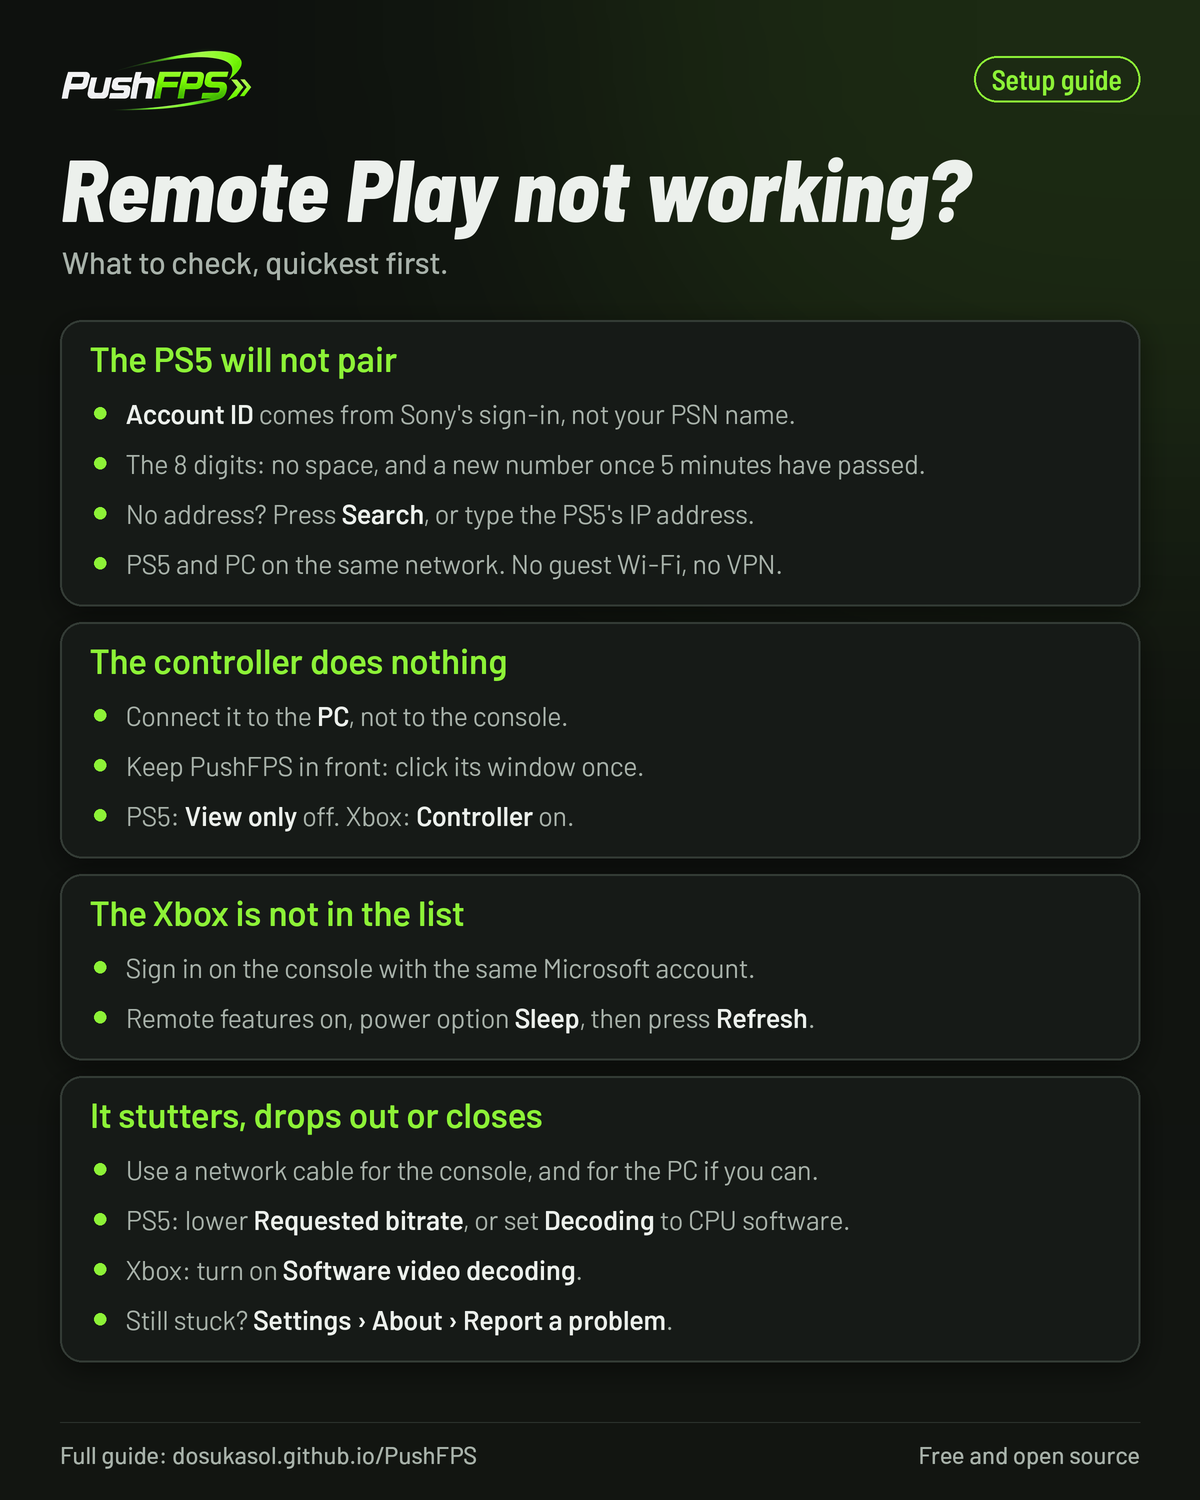
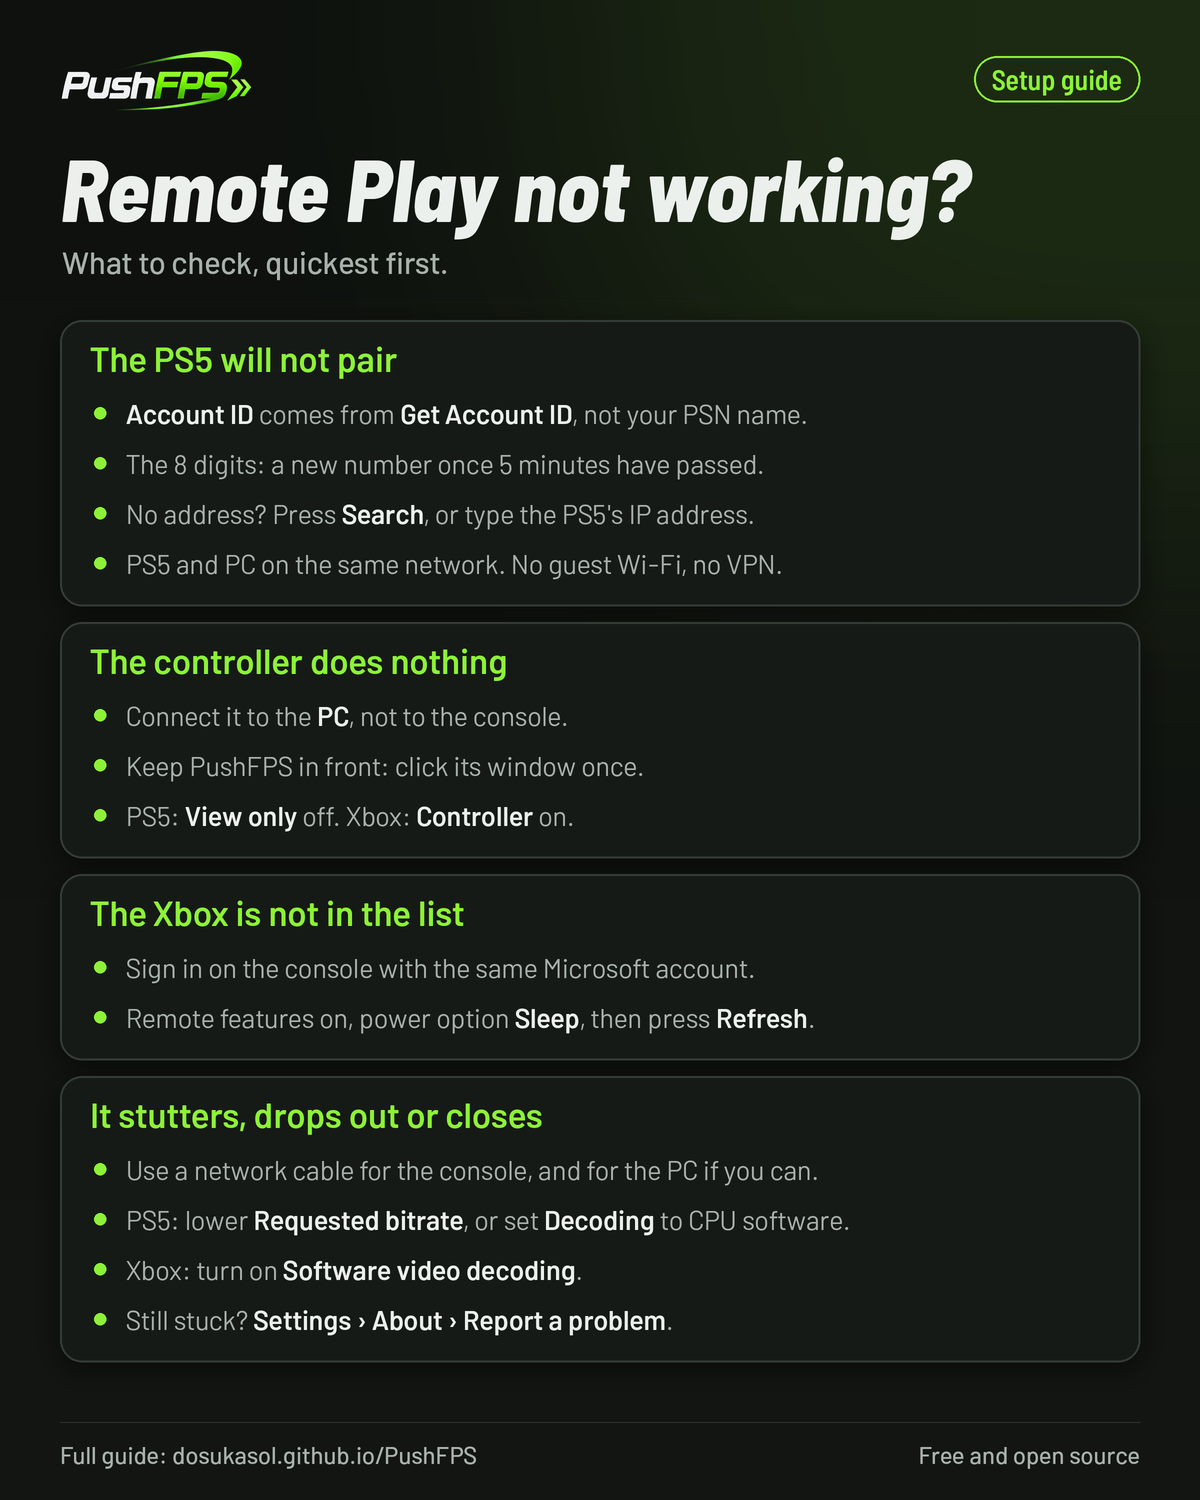
Release notes for 4.5.0; the Remote Play guide: Get Account ID signs in inside PushFPS
Claude-Session: https://claude.ai/code/session_01TMAzA9HkCLcfknHZQ6qwKM

Changed region(s): [[0.2158, 0.2453, 0.7708, 0.3373]]

diff --git a/website/index.html b/website/index.html
@@ -548,8 +548,8 @@
             <h3 class="rp-h">In PushFPS</h3>
             <ol class="rp-steps" start="3">
               <li><b>Open PS5 streaming and press Search.</b> It finds your PS5 and fills in its address. <small>Nothing found? Type the IP address the PS5 shows under Settings → Network → Connection Status → View Connection Status.</small></li>
-              <li><b>Get your Account ID through Sony's own sign-in</b> (<a href="https://github.com/DosukaSOL/PushFPS/blob/main/docs/PSN-ACCOUNT-ID.md" target="_blank" rel="noopener">how</a>) and copy it into the <em>PSN Account ID</em> box: 12 characters ending in <code>=</code>, or a long number. Your PSN name itself does not work. <small>Never paste an <em>NPSSO</em> code anywhere: it is your signed-in PSN session.</small></li>
-              <li><b>Type the 8 digits and press Pair and save.</b> Type them without the space.</li>
+              <li><b>Press Get Account ID.</b> Sony's own sign-in page opens in your browser. Sign in, copy the address the browser ends on (it starts with <code>https://remoteplay.dl.playstation.net</code>) into the box under it and press <em>Fill in</em>: PushFPS fills in your Account ID. <small>Your PSN name itself does not work. Never paste an <em>NPSSO</em> code anywhere: it is your signed-in PSN session.</small></li>
+              <li><b>Type the 8 digits and press Pair and save.</b></li>
               <li><b>Press Connect.</b> If the PS5 asks for the sign-in PIN of your PS5 user, type it under <em>Sign-in PIN</em> in the same window.</li>
             </ol>
             <p class="guide-note"><b>Controller:</b> connect it to the <b>PC</b> with a USB cable, or pair it with the PC's Bluetooth. PushFPS passes it on to the PS5 while its window is in front.</p>
@@ -584,8 +584,8 @@
           <div class="rp-text">
             <h3 class="rp-h">The PS5 will not pair</h3>
             <ul class="rp-checks">
-              <li><b>Account ID</b> is the ID from <a href="https://github.com/DosukaSOL/PushFPS/blob/main/docs/PSN-ACCOUNT-ID.md" target="_blank" rel="noopener">Sony's sign-in</a>, not your PSN name.</li>
-              <li>The 8 digits: no space, and a new number once 5 minutes have passed.</li>
+              <li><b>Account ID</b> comes from <em>Get Account ID</em> (Sony's sign-in), not your PSN name.</li>
+              <li>The 8 digits: a new number once 5 minutes have passed.</li>
               <li>No address? Press <em>Search</em>, or type the PS5's IP address.</li>
               <li>PS5 and PC on the same network: no guest Wi-Fi, no VPN. If Windows asks whether PushFPS may use the network, allow it.</li>
             </ul>

diff --git a/scripts/brand/make_remote_play_guide.py b/scripts/brand/make_remote_play_guide.py
@@ -257,8 +257,8 @@ def ps5(folder):
              path=["Settings", "System", "Remote Play", "Pair Device"], code="1234 5678", code_note="8 digits")
     y = group(ImageDraw.Draw(img), y + px(6), "In PushFPS")
     y = step(img, y, 3, "Open PS5 streaming, press Search", "It finds your PS5 and fills in its address.")
-    y = step(img, y, 4, "Get your Account ID", "Through *Sony's own sign-in*: see the PushFPS guide. Not your PSN name. Never paste an *NPSSO* code anywhere.")
-    y = step(img, y, 5, "Type the 8 digits, press Pair and save", "Type them without the space.")
+    y = step(img, y, 4, "Press Get Account ID", "Sign in on *Sony's own page*, paste the address it ends on, press *Fill in*. Never paste an *NPSSO* code anywhere.")
+    y = step(img, y, 5, "Type the 8 digits, press Pair and save", "The PS5 shows them for 5 minutes.")
     y = step(img, y, 6, "Press Connect", "Controller: plug it into the *PC* with a USB cable, or pair it with the PC's Bluetooth.")
     save(img, "remote-play-ps5", folder)
     return y
@@ -283,8 +283,8 @@ def help_card(folder):
     img, d, y = base("Setup guide", "Remote Play not working?", ["What to check, quickest first."])
     y += px(4)
     y = checks(img, y, "The PS5 will not pair", [
-        "*Account ID* comes from Sony's sign-in, not your PSN name.",
-        "The 8 digits: no space, and a new number once 5 minutes have passed.",
+        "*Account ID* comes from *Get Account ID*, not your PSN name.",
+        "The 8 digits: a new number once 5 minutes have passed.",
         "No address? Press *Search*, or type the PS5's IP address.",
         "PS5 and PC on the same network. No guest Wi-Fi, no VPN."])
     y = checks(img, y, "The controller does nothing", [

diff --git a/packaging/release-notes/v4.5.0.md b/packaging/release-notes/v4.5.0.md
@@ -1,0 +1,52 @@
+## What's new in 4.5.0
+
+Subtitles that stay sharp, a much easier PS5 setup, and fixes from your reports.
+
+### Frame generation
+
+- **Subtitle Hold.** Subtitles no longer smear up and down when the picture moves fast, for example while
+  driving. Like Crosshair Hold, the line of text at the bottom of the screen is kept out of frame
+  generation and laid back over every generated frame. Switch it on under *Quick setup → Subtitle Hold*.
+  It is off unless you turn it on.
+
+### PS5 Remote Play
+
+- **Get your Account ID inside PushFPS.** *Get Account ID* now opens Sony's own sign-in page. Sign in, paste
+  the address your browser ends on and press *Fill in*: PushFPS fills in your Account ID. You no longer need
+  a lookup website, and you never paste a session code anywhere.
+- **Pairing takes what you type.** The 8-digit number can be typed the way the PS5 shows it, with the space.
+  When something is missing, the message names the one field to fix and shows at the top of the window.
+  Opening the window with nothing paired searches for your PS5 by itself.
+- **The controller you press is the one used.** If Windows lists another controller, a wheel or a second pad
+  first, pressing a button on your controller makes it the one PushFPS reads. A stream that plays with no
+  controller on the PC says so.
+- **Reconnecting after a drop.** When the stream breaks off, PushFPS now waits until the PS5 has let go of
+  the old session before connecting again, so it no longer gives up with error 2004.
+- **Fewer stutters at high bitrates,** with a larger network buffer for the stream.
+- **Hardware decoding on newer AMD cards** (such as the RX 9070 XT) no longer stops after a few seconds.
+
+### AMD cards
+
+- **FreeSync is detected.** The *Variable refresh* switch now works with a FreeSync display on an AMD card,
+  the same way it does with G-SYNC on NVIDIA. FreeSync is switched on and off in AMD Software.
+- **FSR upscaling gets motion at the right size,** so it keeps more detail in motion.
+- **AMD FRC** uses its stronger motion search on every card with its own graphics memory, so fast camera
+  turns at 1080p and 1440p double less.
+
+### Capture cards
+
+- **Sharper colour edges** for YUY2 and NV12 / P010 capture.
+- **MJPEG with a manual colour range.** Choosing *Full* or *Limited* no longer stops an MJPEG format from
+  connecting.
+- **60 → 30 original.** The plain every-second-frame selection of earlier versions is back as its own mode
+  in *Duplicate frame removal*, next to *60 → 30*.
+
+### Also
+
+- **Volume above 100 % no longer crackles.** Loud moments are turned down smoothly instead of being cut off.
+- **Recordings of an odd-sized window** are recorded instead of refused.
+- **Xbox** with decoding on the processor uses the stream's real size.
+- A warning in the live readout was shown in Chinese; it is translated now.
+- Tooltips behind an open window no longer pop up over it, the network address box is ready to paste into,
+  and the performance orb's glow is no longer cut off.
+- Crash notes say a little more about where a crash happened, still without any personal information.

diff --git a/README.md b/README.md
@@ -367,10 +367,11 @@ In PushFPS:
 
 3. **Open PS5 streaming and press Search.** It finds your PS5 and fills in its address. Nothing found? Type
    the IP address the PS5 shows under *Settings → Network → Connection Status → View Connection Status*.
-4. **Get your Account ID through Sony's own sign-in** ([how](docs/PSN-ACCOUNT-ID.md)) and copy it into the
-   *PSN Account ID* box: 12 characters ending in `=`, or a long number. Your PSN name itself does not work.
-   Never paste an *NPSSO* code anywhere: it is your signed-in PSN session.
-5. **Type the 8 digits and press Pair and save.** Type them without the space.
+4. **Press Get Account ID.** Sony's own sign-in page opens in your browser. Sign in, copy the address the
+   browser ends on (it starts with `https://remoteplay.dl.playstation.net`) into the box under it and press
+   *Fill in*: PushFPS fills in your Account ID. Your PSN name itself does not work, and never paste an
+   *NPSSO* code anywhere: it is your signed-in PSN session.
+5. **Type the 8 digits and press Pair and save.**
 6. **Press Connect.** If the PS5 asks for the sign-in PIN of your PS5 user, type it under *Sign-in PIN* in
    the same window.
 
@@ -404,7 +405,7 @@ when Microsoft changes its service. Only for your own account and console.
 
 | What happens | What to check |
 |---|---|
-| **The PS5 will not pair** | *Account ID* is the ID from [Sony's sign-in](docs/PSN-ACCOUNT-ID.md), not your PSN name. The 8 digits: no space, and a new number once 5 minutes have passed. No address? Press *Search*, or type the PS5's IP address. PS5 and PC on the same network: no guest Wi-Fi, no VPN. If Windows asks whether PushFPS may use the network, allow it |
+| **The PS5 will not pair** | *Account ID* comes from *Get Account ID* (Sony's sign-in), not your PSN name. The 8 digits: a new number once 5 minutes have passed. No address? Press *Search*, or type the PS5's IP address. PS5 and PC on the same network: no guest Wi-Fi, no VPN. If Windows asks whether PushFPS may use the network, allow it |
 | **The controller does nothing** | Connect it to the **PC**, not to the console. Keep PushFPS in front: click its window once (it only passes the controller on while it is the active window). PS5: *View only* off. Xbox: *Controller* on. More than one controller or wheel connected? Unplug the others and connect again |
 | **The Xbox is not in the list** | Sign in on the console with the same Microsoft account. Remote features on, power option *Sleep*, then press *Refresh* |
 | **It stutters, drops out or closes** | Use a network cable for the console, and for the PC if you can. PS5: lower *Requested bitrate*, or set *Decoding* to CPU software. Xbox: turn on *Software video decoding*. Still stuck? *Settings → About → Report a problem* copies what we need to help, or ask on the [Discord](https://discord.gg/N88znNpSgC) |
